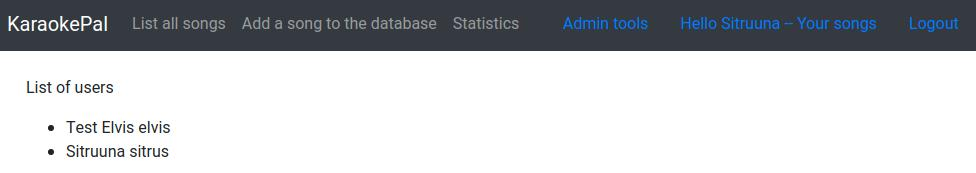
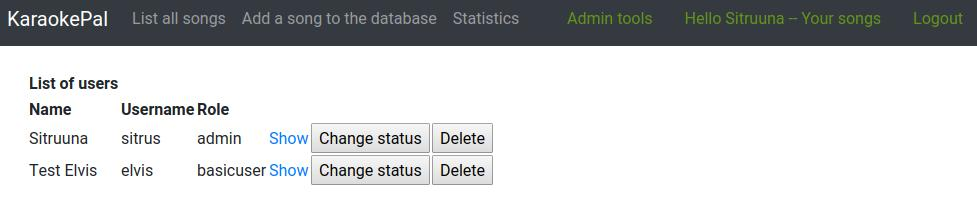
dokumentointia, validoinnin korjausta

diff --git a/application/templates/songs/new.html b/application/templates/songs/new.html
@@ -16,7 +16,7 @@
             <li>{{ error }}</li>
             {% endfor %}
           </ul>
-        </td>
+      </td>
     </tr>
     <tr>
         <td>
@@ -32,6 +32,13 @@
         </td>
         <td>
           {{ form.artistname }}
+        </td>
+        <td>
+            <ul>
+              {% for error in form.songname.errors %}
+              <li>{{ error }}</li>
+              {% endfor %}
+            </ul>
         </td>
     </tr>
     <tr>

diff --git a/application/auth/forms.py b/application/auth/forms.py
@@ -14,8 +14,8 @@ class LoginForm(FlaskForm):
 # Form for creating a new user
 class UserForm(FlaskForm):
     name = StringField("Name", [validators.Length(min=2, max=144, message='Name should be longer than 1 and shorter than 144 characters')])
-    username = StringField("Username", [validators.Regexp('^\w+$', message="Username must contain only letters, numbers or underscore"), validators.Length(min=5, max=30, message='The username should be longer than 4 and shorter than 30 characters')])
-    password = PasswordField("Password", [validators.Regexp('^\w+$', message="Password must contain only letters, numbers or underscore"), validators.Length(min=4, max=30, message='The password should be longer than 4 and shorter than 30 characters')])
+    username = StringField("Username", [validators.Regexp('^\w+$', message="Username must contain only letters, numbers or underscore"), validators.Length(min=5, max=30, message='The username should be at least 5 and shorter than 30 characters')])
+    password = PasswordField("Password", [validators.Regexp('^\w+$', message="Password must contain only letters, numbers or underscore"), validators.Length(min=5, max=30, message='The password should be at least 5 and shorter than 30 characters')])
     
     class Meta:
         csrf = False        

diff --git a/documentation/userstory.md b/documentation/userstory.md
@@ -23,7 +23,7 @@ Pääkäyttäjänä
 
 1. Tiedon selaaminen
 
-Listaukset kaikista lauluista ja käyttäjistä tehdään aakkosjärjestyksessä nimen mukaan käyttäen valmiita query-metodeja. Samoin tehdään tarkistukset olemassaolevista lauluista ja artisteista, ettei niitä lisätessä synny duplikaatteja.
+Listaukset kaikista lauluista ja käyttäjistä tehdään aakkosjärjestyksessä nimen mukaan käyttäen valmiita Flaskin SQLAlchemyn query-metodeja. Samoin tehdään tarkistukset olemassaolevista lauluista ja artisteista, ettei niitä lisätessä synny duplikaatteja.
 
 
 ```Tiedon hakemisessa käytettyjä SQL-kyselyitä:
@@ -41,32 +41,61 @@ SELECT * from Song ORDER BY song.songname;
 
 Listaus käyttäjän omista lauluista järjestettynä laulamiskertojen mukaan:
 
-SELECT Song.id, Song.songname, Accountsongs.count, Song.description FROM Song, Accountsongs
-                      WHERE Song.id = Accountsongs.song_id
-                      AND Accountsongs.account_id = ?
-                      ORDER BY Accountsongs.count DESC (?=<parametrinä annettu account.id>
+SELECT Song.id, Song.songname, Accountsongs.count, Song.description 
+		FROM Song, Accountsongs
+                WHERE Song.id = Accountsongs.song_id
+                AND Accountsongs.account_id = ?
+                ORDER BY Accountsongs.count DESC (?=<parametrinä annettu account.id>
 
 
 Laululle etsitään artisti:
 
-SELECT Artist.id FROM Artist
-                      LEFT JOIN artistsongs ON Artist.id = artistsongs.artist_id 
-                      LEFT JOIN Song ON Song.id = artistsongs.song_id
-                      WHERE Song.id = ? (?=<parametrinä annettu song.id>)
+SELECT Artist.id 
+		FROM Artist
+                LEFT JOIN artistsongs ON Artist.id = artistsongs.artist_id 
+                LEFT JOIN Song ON Song.id = artistsongs.song_id
+                WHERE Song.id = ? (?=<parametrinä annettu song.id>)
 
 
-Kuinka monella käyttäjällä on valittuna laulu, listaus suosituimmuusjärjestyksessä:
+Kuinka monella käyttäjällä on valittuna laulu. Laulusta ja artistista haetaan nimi, listaus on suosituimmuusjärjestyksessä:
 
-SELECT Song.songname, COUNT(accountsongs.song_id) AS howmany FROM Song 
-		      LEFT JOIN accountsongs ON Song.id = accountsongs.song_id 
-		      LEFT JOIN Account ON Account.id = accountsongs.account_id 
-		      GROUP BY Song.id ORDER BY howmany DESC;
+SELECT Song.songname, Artist.artistname, 
+		COUNT(DISTINCT account.id)
+		FROM Song
+		LEFT JOIN Accountsongs ON Song.id = accountsongs.song_id
+		LEFT JOIN artistsongs ON artistsongs.song_id = Song.id
+		LEFT JOIN Artist ON Artist.id = artistsongs.artist_id
+		LEFT JOIN Account ON Account.id = accountsongs.account_id
+		GROUP BY Song.songname, Artist.artistname
+		ORDER BY COUNT(DISTINCT account.id) DESC
+
+
+Listataan laulut niin, että tuloksessa löytyy laulun nimi ja artistin nimi, lista aakkosjärjestyksessä laulun nimen mukaan:
+
+SELECT Song.id, Song.songname, Artist.artistname FROM Song
+		LEFT JOIN artistsongs ON Song.id = artistsongs.song_id 
+		LEFT JOIN Artist ON Artist.id = artistsongs.artist_id
+		ORDER BY Song.songname
+
+
+Tarkistetaan, onko tietokannassa jo tietty laulu yhdistettynä tiettyyn artistiin:
+
+SELECT * FROM artistsongs
+                WHERE artistsongs.artist_id = ?
+                AND artistsongs.song_id = ? (?=<parametrinä annettut artist.id ja song.id> 
+
+
+Tarkistetaan, onko kirjautuneella käyttäjällä jo tietty laulu:
+
+SELECT * FROM Accountsongs
+                WHERE accountsongs.account_id = ?
+                AND accountsongs.song_id = ? (?=<parametrinä annettut account.id ja song.id> 
 
 ```
 
 2. Tiedon lisääminen
 
-Sovellukseen voi lisätä peruskäyttäjiä ja lauluja, tiedon lisäys ja lisäykseen liittyvät duplikaattitarkistukset tehdään käyttäen Flaskin toimintoja.
+Sovellukseen voi lisätä peruskäyttäjiä ja lauluja, tiedon lisäys ja lisäykseen liittyvät duplikaattitarkistukset tehdään käyttäen Flaskin SQLAlchemyn toimintoja.
 
 Kun sovellus on otettu käyttöön ja käynnistetty ensimmäisen kerran, tulisi siihen lisätä admin -käyttäjä suoraan tietokantaan (nimi, tunnus ja salasana- kohtiin täytetään halutut tiedot):
 
@@ -88,7 +117,7 @@ Tietojen muokkauksessa käytetään jälleen Flaskista löytyviä ominaisuuksia.
 Muutetaan laulun nimeä ja kuvausta:
 
 UPDATE Song SET songname = '?', description = '?' 
-			WHERE song.id = ?; (? = <parametrinä annettu erikseen nimi, kuvaus ja song.id >)
+		WHERE song.id = ?; (? = <parametrinä annettu erikseen nimi, kuvaus ja song.id >)
 
 ```
 
@@ -106,7 +135,7 @@ DELETE FROM Song WHERE song.id = ?; (? = <parametrinä annettu song.id >)
 
 5. Kirjautuminen
 
-Käyttäjät voivat kirjautua sovellukseen. Sovelluksen näkymä muuttuu sen mukaan, onko kirjauduttu ollenkaan, tai onko kirjautuja admin vai peruskäyttäjä. Kirjautuminen on toteutettu Flaskin ominaisuuksilla. Toiminnot on myös autorisoitu niin, että niihin ei pääse käsiksi myöskään suorasta osoitteesta ilman oikean tyyppistä kirjatumista.
+Käyttäjät voivat kirjautua sovellukseen. Sovelluksen näkymä muuttuu sen mukaan, onko kirjauduttu ollenkaan, tai onko kirjautuja admin vai peruskäyttäjä. Kirjautuminen on toteutettu Flaskin ominaisuuksilla. Toiminnot on myös autorisoitu niin, että niihin ei pääse käsiksi myöskään suorasta osoitteesta ilman oikean tyyppistä kirjautumista.
 
 
 ## Tietokantataulut

diff --git a/documentation/kayttoohje.md b/documentation/kayttoohje.md
@@ -22,7 +22,7 @@ Kun käyttäjätunnus on luotu, voi sovellukseen kirjautua kirjautumissivun kaut
 
 ## Kaikkien tietokannan laulujen listaus
 
-Jos käyttäjä on kirjautunut, näytetään kuvan mukainen laululistaus, muuten listataan ainoastaan laulun nimet. Laulun nimen perässä on linkki, josta pääsee tarkastelemaan laulun tietoja tarkemmin, sekä muokkaamaan laulun nimeä ja kuvausta. Add to my list- napista laulun voi valita omaan laululistaan ja delete napista (joka löytyy vain pää käyttäjän näkymässä) voi poistaa laulun kokonaan tietokannasta.
+Jos käyttäjä on kirjautunut, näytetään kuvan mukainen laululistaus, muuten listataan ainoastaan laulun nimet. Laulun nimen perässä on linkki, josta pääsee tarkastelemaan laulun tietoja tarkemmin, sekä muokkaamaan laulun nimeä ja kuvausta. Add to my list- napista laulun voi valita omaan laululistaan ja delete napista (joka löytyy vain pääkäyttäjän näkymässä) voi poistaa laulun kokonaan tietokannasta.
 
 <img src="https://github.com/apndx/Karaokepal/blob/master/documentation/songlist.jpg" width="600">
 
@@ -46,13 +46,24 @@ Kirjautunut käyttäjä pääsee linkistä "Your songs" listaukseen, jossa lista
 
 ## Tilastotiedot
 
-Kaikki käyttäjät pääsevät etusivulta linkistä "Statistic" löytyvään tilastotietolistaukseen. Tällä hetkellä tilastosivulta näkyy listaus lauluista, joita käyttäjät ovat valinneet, sekä lukumäärä kuinka monelta käyttäjältä laulu löytyy.
+Kaikki käyttäjät pääsevät etusivulta linkistä "Statistic" löytyvään tilastotietolistaukseen. Tilastosivulta näkyy listaus lauluista, joita käyttäjät ovat valinneet, sekä lukumäärä kuinka monelta käyttäjältä laulu löytyy.
 
 <img src="https://github.com/apndx/Karaokepal/blob/master/documentation/stats.jpg" width="600">
 
 ## Adminin työkalut
 
-Jos käyttäjällä on adminoikeudet, näkyy hänelle yläpalkissa linkki "Admin tools". Tällä hetkellä tämän linkin takaa näkyy listaus sovelluksen käyttäjistä ja heidän käyttäjätunnuksistaan.
+Jos käyttäjällä on adminoikeudet, näkyy hänelle yläpalkissa linkki "Admin tools". Linkin takaa näkyy listaus sovelluksen käyttäjistä ja heidän käyttäjätunnuksistaan. Tässä näkymässä voi muuttaa käyttäjien käyttäjäroolia, tai valita käyttäjän jonka tietoja halutaan muuttaa.
 
 <img src="https://github.com/apndx/Karaokepal/blob/master/documentation/admintools.jpg" width="600">
+
+## Käyttäjän tietojen muutos
+
+Käyttäjän nimeä ja salasanaa on mahdollista muokata kirjoittamalla halutut tiedot lomakkeelle ja painamalla "Save changes".
+
+<img src="https://github.com/apndx/Karaokepal/blob/master/documentation/changeuser.jpg" width="600">
+
+
+
+
+
 

diff --git a/documentation/reflektio.md b/documentation/reflektio.md
@@ -54,7 +54,7 @@ Tällä hetkellä artisti -taulun käsittely ohjelmassa on hyvin suppeaa, se on 
 
 ### Käyttäjän tiedot
 
-Tällä hetkellä käyttäjällä ei ole mahdollisuutta salasanansa muuttamiseen. Käyttäjän omien laujen listauksissa lauluissa voisi näkyä myös artisti, sekä käyttäjän käytössä olevat omat lisätiedot laulusta. Käyttäjän lauluihin ei ole myöskään vielä toteutettu sävellajitoiveen tallennusta.
+Tällä hetkellä käyttäjällä ei ole mahdollisuutta salasanansa muuttamiseen. Käyttäjän omien laulujen listauksissa lauluissa voisi näkyä myös artisti, sekä käyttäjän käytössä olevat omat lisätiedot laulusta. Käyttäjän lauluihin ei ole myöskään vielä toteutettu sävellajitoiveen tallennusta.
 
 ### Ulkoasu
 
